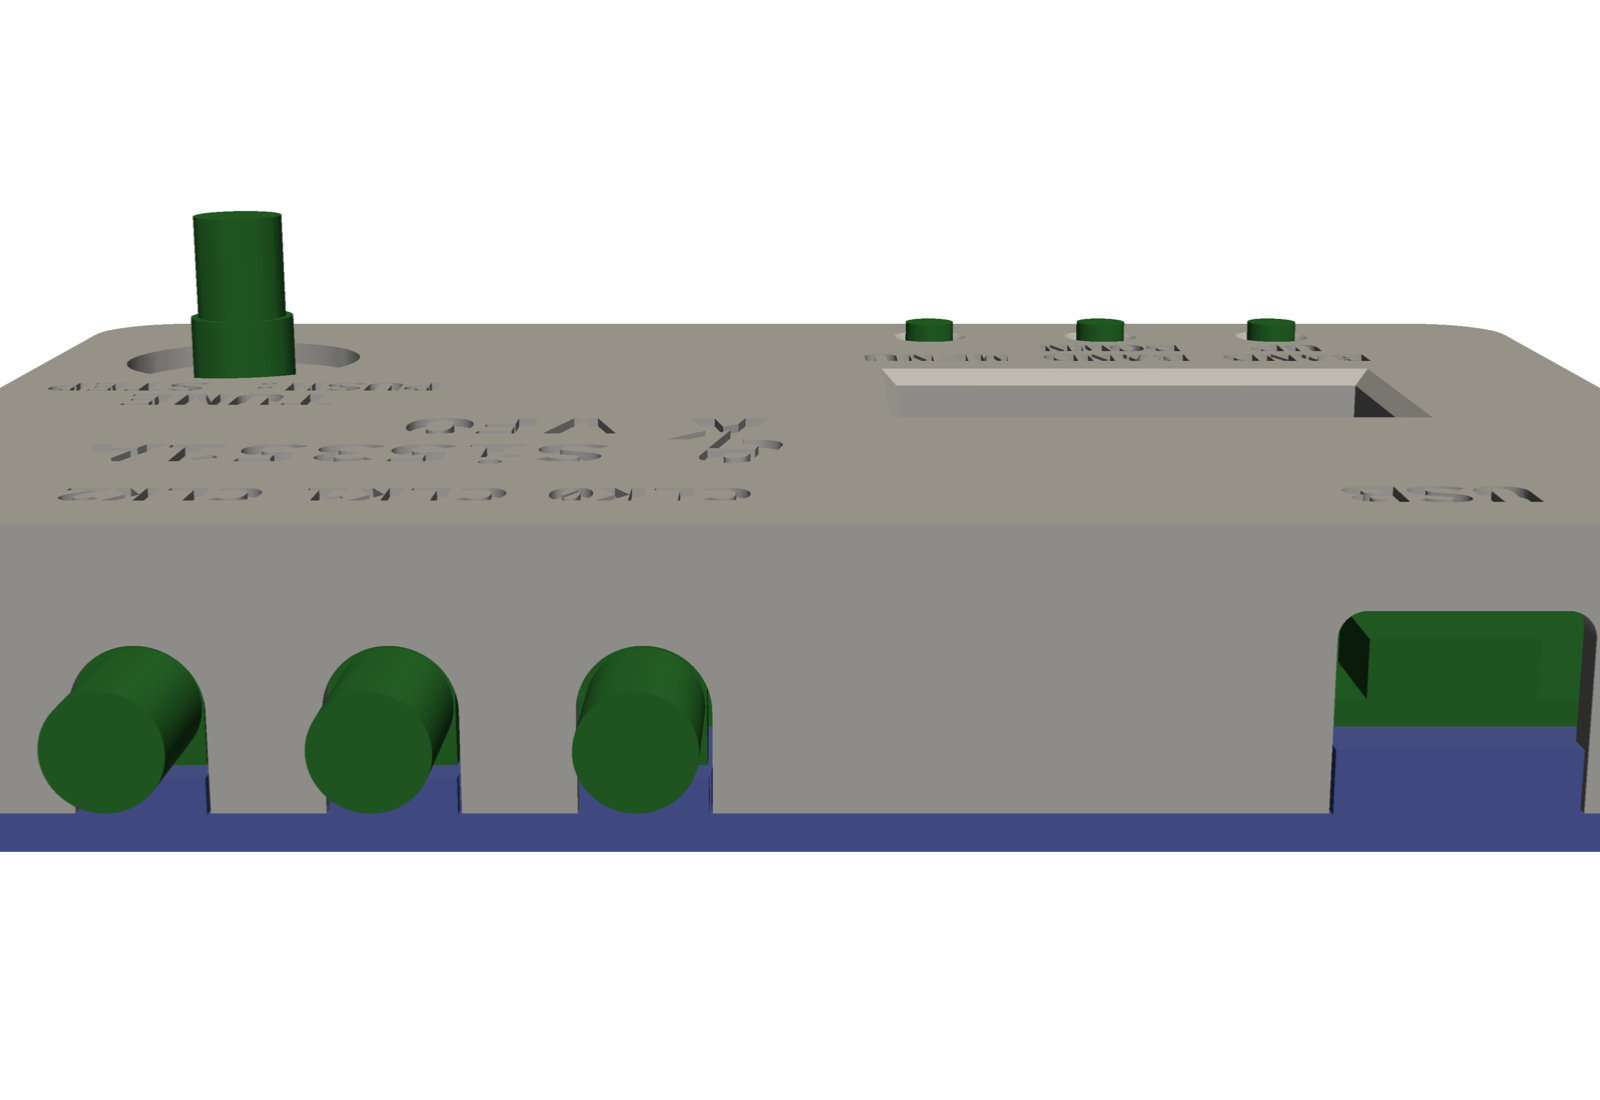
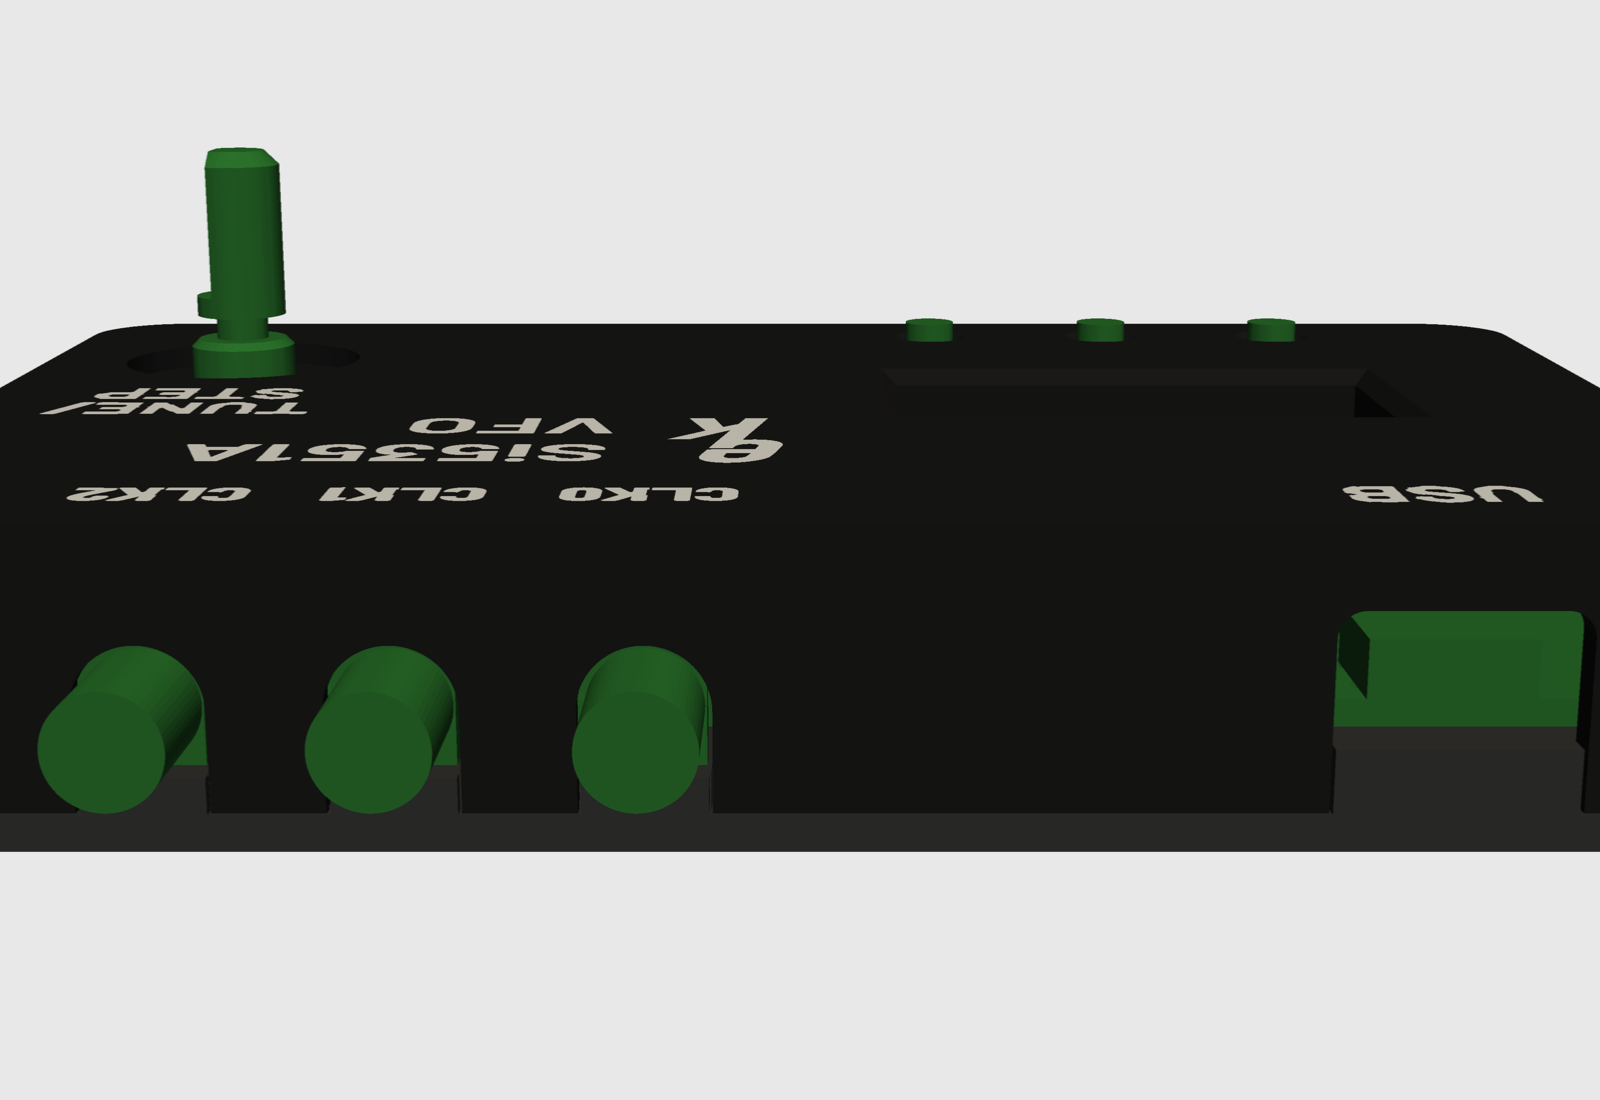
Enclosure: regenerate renders from rev4
render.py now draws the two-color front shell (black body, white inlay) and writes straight into enclosure/renders/. All eight renders are regenerated from rev4: soft-key buttons with no labels, Barlow text, and the two-line TUNE/STEP encoder label. Drop the README note that the renders were stale.

diff --git a/enclosure/src/render.py b/enclosure/src/render.py
@@ -1,22 +1,40 @@
-import os, sys, numpy as np, cadquery as cq, pyvista as pv, trimesh
+"""Render the preview PNGs in ../renders from the current design (two-color front: black body, white inlay)."""
+import os, sys, cadquery as cq, pyvista as pv
+HERE = os.path.dirname(os.path.abspath(__file__))
+os.chdir(HERE)
+sys.path.insert(0, HERE)
 import vfo_case as V
-os.chdir(os.path.dirname(os.path.abspath(__file__)))
+R = os.path.join(HERE, "..", "renders")
 if not os.path.exists("board.stl"):
-    bd = cq.importers.importStep(os.path.join(os.path.dirname(os.path.abspath(__file__)), "..", "..", "docs", "mechanical", "Si5351AVFO_board.step"))
+    bd = cq.importers.importStep(os.path.join(HERE, "..", "..", "docs", "mechanical", "Si5351AVFO_board.step"))
     cq.exporters.export(bd, "board.stl", tolerance=0.05, angularTolerance=0.2)
-for n, p in (("front", V.front_shell()), ("cover", V.back_cover())):
-    cq.exporters.export(p, f"_{n}_asm.stl", tolerance=0.02, angularTolerance=0.1)
+front = V.front_shell()
+parts = [("front", front), ("cover", V.back_cover())]
+if V.PANEL_GRAPHICS == "inlay":
+    parts.append(("inlay", V.panel_inlay(front)))
+for n, p in parts:
+    cq.exporters.export(p, f"_{n}_asm.stl", tolerance=0.01, angularTolerance=0.1)
 B, F, C = pv.read("board.stl"), pv.read("_front_asm.stl"), pv.read("_cover_asm.stl")
-def shot(fn, meshes, cam, size=(1600, 1100)):
-    pl = pv.Plotter(off_screen=True, window_size=size); pl.set_background("white")
+I = pv.read("_inlay_asm.stl") if os.path.exists("_inlay_asm.stl") and V.PANEL_GRAPHICS == "inlay" else None
+BODY, INK, BOARD, COVER = "#1c1c1c", "#ffffff", "#2e7d32", "#3a3a3a"
+def front_meshes(dz=0, op=1):
+    m = [(F.translate((0, 0, dz)), BODY, op)]
+    if I is not None: m.append((I.translate((0, 0, dz)), INK, 1))
+    return m
+def shot(fn, meshes, cam, size=(1600, 1100), zoom=1.25, bg="#e8e8e8"):
+    pl = pv.Plotter(off_screen=True, window_size=size); pl.set_background(bg)
     for m, col, op in meshes: pl.add_mesh(m, color=col, opacity=op, smooth_shading=False, specular=0.2)
-    pl.camera_position = cam; pl.camera.zoom(1.25 if "exploded" not in fn else 0.95); pl.enable_anti_aliasing("ssaa"); pl.screenshot(fn); pl.close()
-iso_front = [(170, -150, 160), (50, -32, 4), (0, 0, 1)]
-shot("vfo_case_assembled.png", [(B, "#2e7d32", 1), (F, "#e0e0e0", 0.55), (C, "#5c6bc0", 1)], [(-40, -150, 150), (50, -32, 4), (0, 0, 1)])
-shot("vfo_case_assembled_front.png", [(B, "#2e7d32", 1), (F, "#cfcfcf", 1), (C, "#5c6bc0", 1)], [(50, -150, 140), (50, -32, 4), (0, 0, 1)])
-shot("vfo_case_connectors.png", [(B, "#2e7d32", 1), (F, "#cfcfcf", 1), (C, "#5c6bc0", 1)], [(50, 130, 40), (50, -32, 2), (0, 0, 1)])
-shot("vfo_case_exploded.png", [(B, "#2e7d32", 1), (F.translate((0, 0, 30)), "#cfcfcf", 1), (C.translate((0, 0, -25)), "#5c6bc0", 1)], [(-120, -260, 170), (50, -32, 0), (0, 0, 1)], (1400, 1500))
-fp, cp = pv.read("../stl/vfo_front_shell.stl"), pv.read("../stl/vfo_back_cover.stl")
-shot("vfo_case_front_print.png", [(fp, "#ff8f00", 1)], [(80, -120, 140), (0, 0, 5), (0, 0, 1)])
-shot("vfo_case_cover_print.png", [(cp, "#ff8f00", 1)], [(80, -120, 140), (0, 0, 3), (0, 0, 1)])
+    pl.camera_position = cam; pl.camera.zoom(zoom); pl.enable_anti_aliasing("ssaa"); pl.screenshot(os.path.join(R, fn)); pl.close()
+shot("vfo_case_assembled.png", [(B, BOARD, 1)] + front_meshes(op=0.45) + [(C, COVER, 1)], [(-40, -150, 150), (50, -32, 4), (0, 0, 1)])
+shot("vfo_case_assembled_front.png", [(B, BOARD, 1)] + front_meshes() + [(C, COVER, 1)], [(50, -150, 140), (50, -32, 4), (0, 0, 1)])
+shot("vfo_case_connectors.png", [(B, BOARD, 1)] + front_meshes() + [(C, COVER, 1)], [(50, 130, 40), (50, -32, 2), (0, 0, 1)])
+shot("vfo_case_exploded.png", [(B, BOARD, 1)] + front_meshes(30) + [(C.translate((0, 0, -25)), COVER, 1)], [(-120, -260, 170), (50, -32, 0), (0, 0, 1)], (1400, 1500), 0.95)
+# panel close-ups: straight on and 3/4
+shot("vfo_case_labels2_front.png", front_meshes(), [(50, -32.5, 250), (50, -32.5, 0), (0, 1, 0)], zoom=1.45)
+shot("vfo_case_labels2_34.png", front_meshes(), [(130, -150, 150), (50, -32.5, 5), (0, 0, 1)], zoom=1.3)
+# print orientation (from ../stl)
+S = os.path.join(HERE, "..", "stl")
+fb, fi, cp = (pv.read(os.path.join(S, f)) for f in ("vfo_front_shell_body.stl", "vfo_front_shell_inlay.stl", "vfo_back_cover.stl"))
+shot("vfo_case_front_print.png", [(fb, BODY, 1), (fi, INK, 1)], [(80, -120, 140), (0, 0, 5), (0, 0, 1)])
+shot("vfo_case_cover_print.png", [(cp, BODY, 1)], [(80, -120, 140), (0, 0, 3), (0, 0, 1)])
 sys.stdout.flush(); os._exit(0)

diff --git a/enclosure/README.md b/enclosure/README.md
@@ -20,7 +20,7 @@ Two-part supportless case for the Si5351A VFO board (100 × 65 mm). The case is 
 | `step/` | Print orientation: `vfo_front_shell.step`, `vfo_front_shell_2color.step` (body + inlay assembly), `vfo_back_cover.step`. Board frame: `*_assembly_frame.step` |
 | `3mf/` | `VFO_case_2color_PETG_CC2_rev4.3mf`: OrcaSlicer project, both parts on one Centauri Carbon 2 plate |
 | `gcode/` | `VFO_case_2color_PETG_CC2_rev4.gcode`: the sliced job that was printed |
-| `renders/` | Preview renders from the first iteration (they show the older debossed labels) |
+| `renders/` | Rev4 preview renders (black body, white inlay), made by `src/render.py` |
 
 ## Print settings
 
@@ -64,6 +64,7 @@ python3 -m venv ~/.venvs/cad
 ~/.venvs/cad/bin/pip install cadquery==2.8.0 shapely trimesh pyvista
 ~/.venvs/cad/bin/python enclosure/src/vfo_case.py   # writes STEP/STL exports into enclosure/src/
 mv enclosure/src/*.step enclosure/step/ && mv enclosure/src/*.stl enclosure/stl/
+~/.venvs/cad/bin/python enclosure/src/render.py         # regenerates enclosure/renders/*.png
 ```
 
 Set `PANEL_GRAPHICS = True` in `vfo_case.py` for single-color debossed graphics instead of the inlay.
